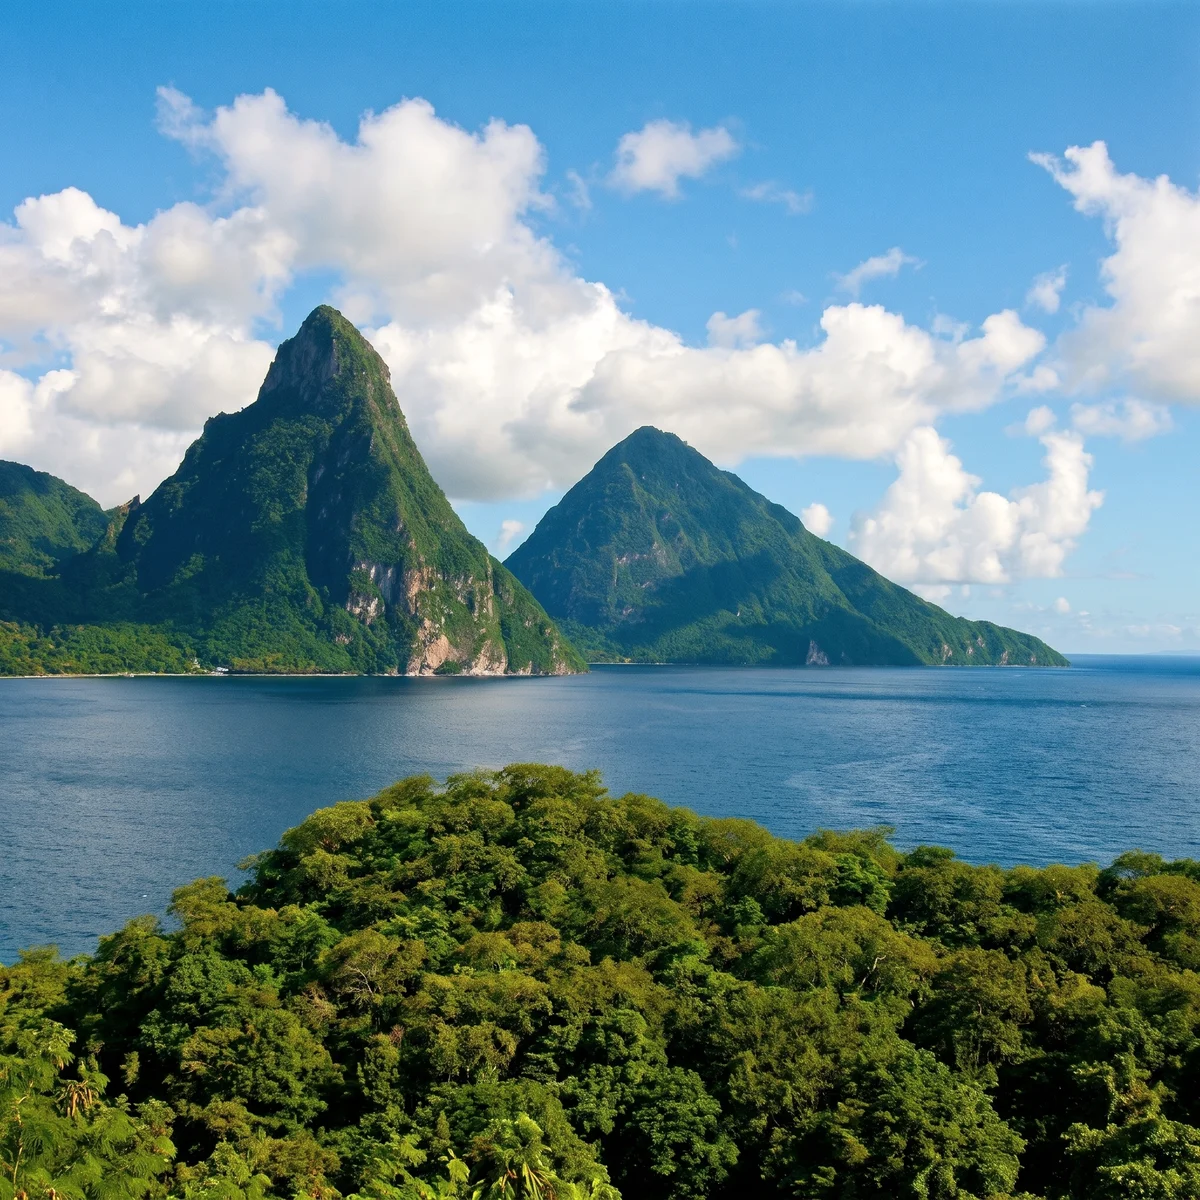
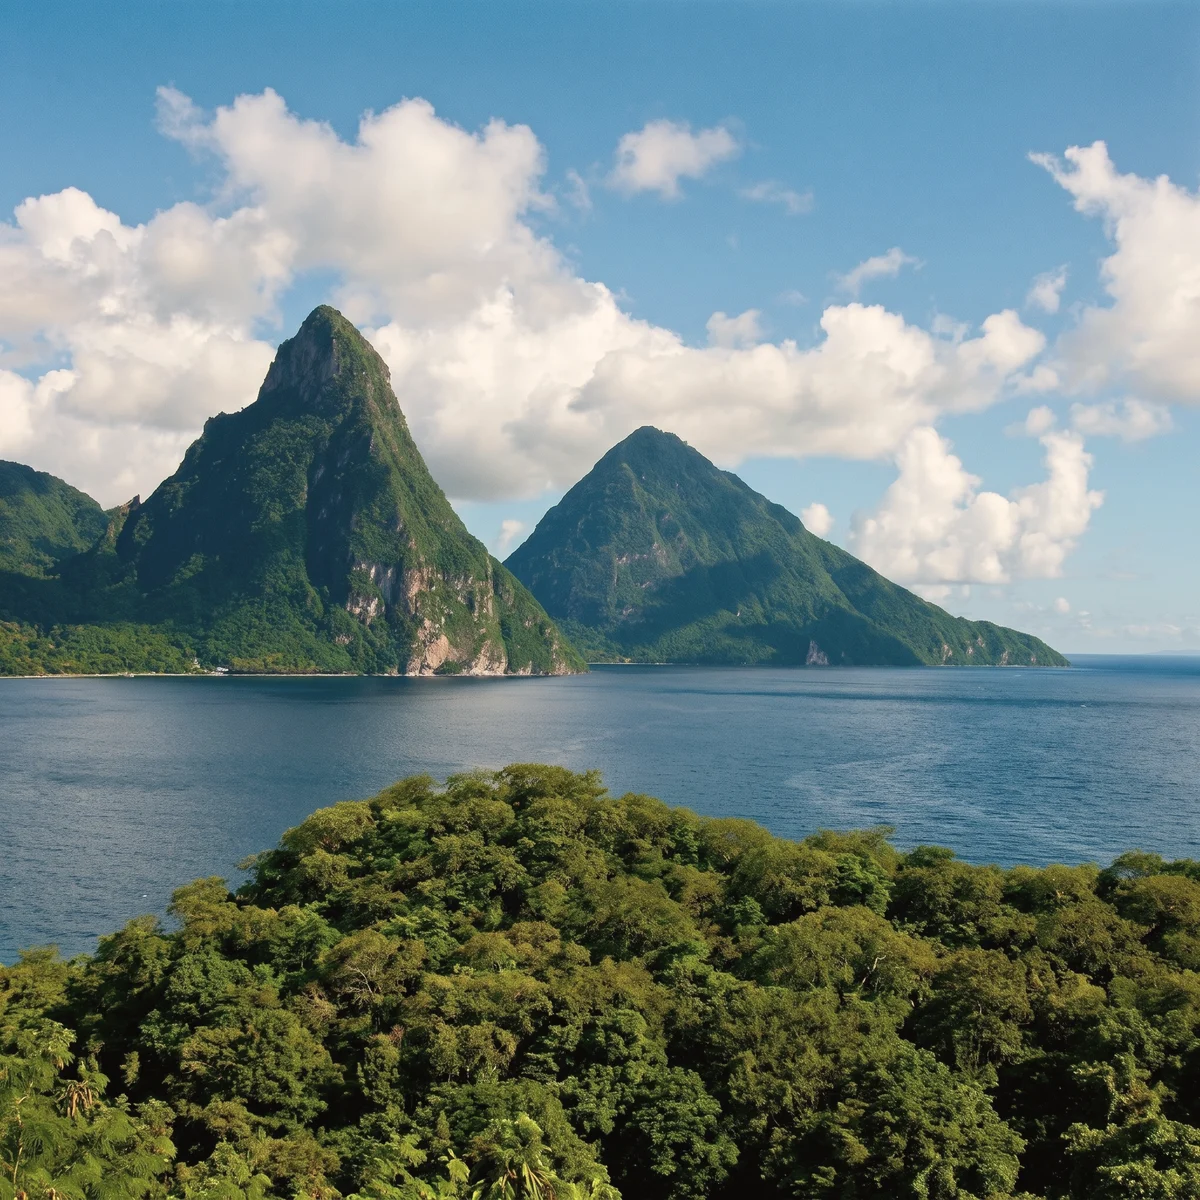
Sainte-Lucie : hero 3, couleurs plus naturelles

diff --git a/src/content/destinations/sainte-lucie.tsx b/src/content/destinations/sainte-lucie.tsx
@@ -43,8 +43,8 @@ export const destination: Destination = {
           alt: "La baie de Marigot vue du ciel, sa langue de sable plantée de cocotiers et les voiliers au mouillage",
         },
         {
-          src: "/destination/sainte-lucie/hero-3.png",
-          alt: "Barques de pêche tirées sur le sable devant le village de Soufrière",
+          src: "/destination/sainte-lucie/hero-3.webp",
+          alt: "Barques de pêche colorées tirées sur le sable sombre d'une plage de Soufrière",
         },
       ],
     },
@@ -572,8 +572,8 @@ export const destination: Destination = {
           quote:
             "La montée du Gros Piton au lever du jour restera notre meilleur souvenir. Nous avons pris le petit déjeuner à Soufrière en redescendant, et la journée n'avait pas encore commencé pour les autres.",
           image: {
-            src: "/destination/sainte-lucie/hero-3.png",
-            alt: "Barques de pêche tirées sur le sable devant le village de Soufrière"
+            src: "/destination/sainte-lucie/hero-3.webp",
+            alt: "Barques de pêche colorées tirées sur le sable sombre d'une plage de Soufrière"
           },
           name: "TODO", // TODO: replace with real testimonial
           role: "Sainte-Lucie, avril 2026", // TODO: à vérifier (replace with real testimonial)

diff --git a/references/destination/sainte-lucie/SOURCES.md b/references/destination/sainte-lucie/SOURCES.md
@@ -43,3 +43,4 @@ Testimonial portraits reuse `hero-1.png`, `hero-2.png` and `hero-3.png`.
 | `bento-adresses.webp`, `bento-experiences.webp` | Générées par IA (gen_text) | image générée |
 - `hero-1.webp` : https://www.sainte-lucie.fr/images/pitons-st.jpg (panorama recadré, ciel et premier plan prolongés par Gemini pour le format carré, Pitons inchangés).
 - `hero-2.webp` : https://cdn.prod.rexby.com/image/d596616a4f08444389e0af042a93f0da (recadrage carré).
+- `hero-3.webp` : vignette Google Images (https://encrypted-tbn0.gstatic.com/images?q=tbn:ANd9GcRjmNYHoVki3mtuCWK0j754NF3i25ZRHUZ1JPITU9t87g), redessinée en HD et prolongée au carré par Gemini. Hero 1 à 3 désaturées (couleurs plus naturelles, demande de Thea).
